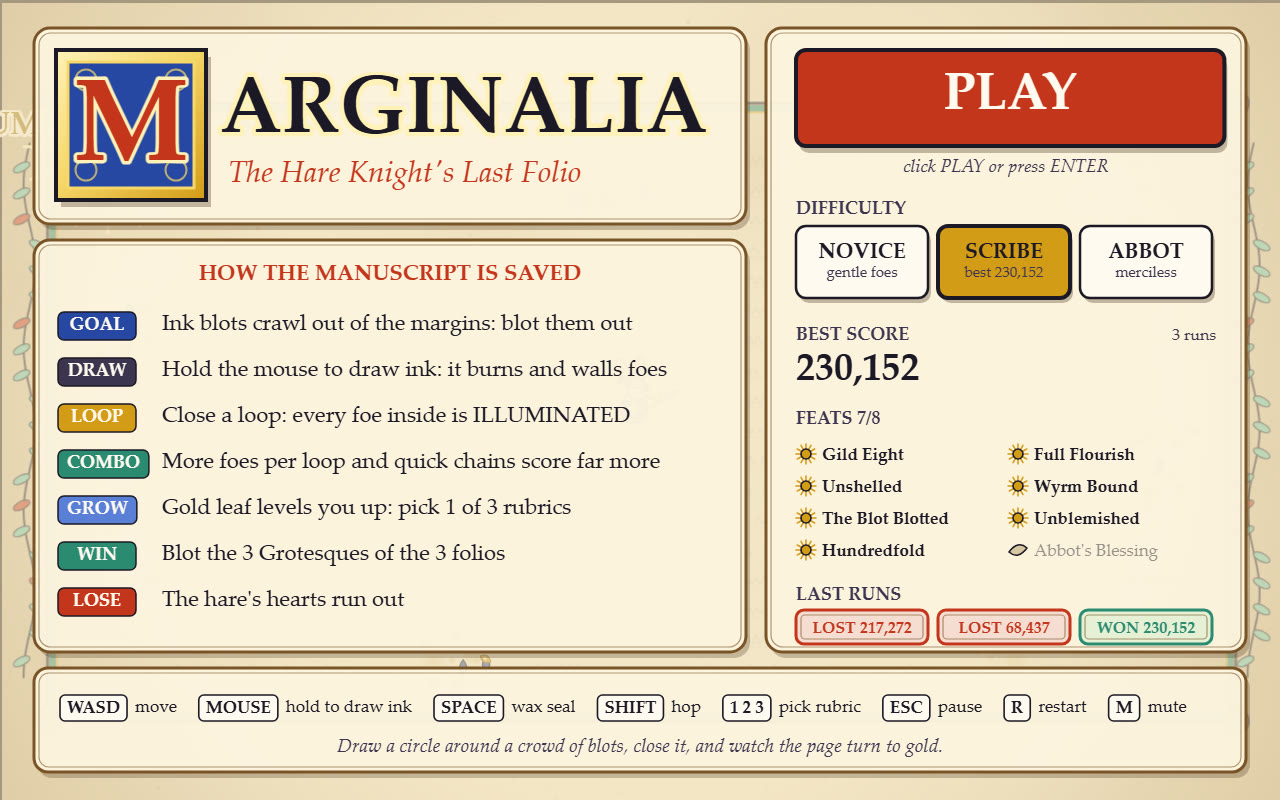
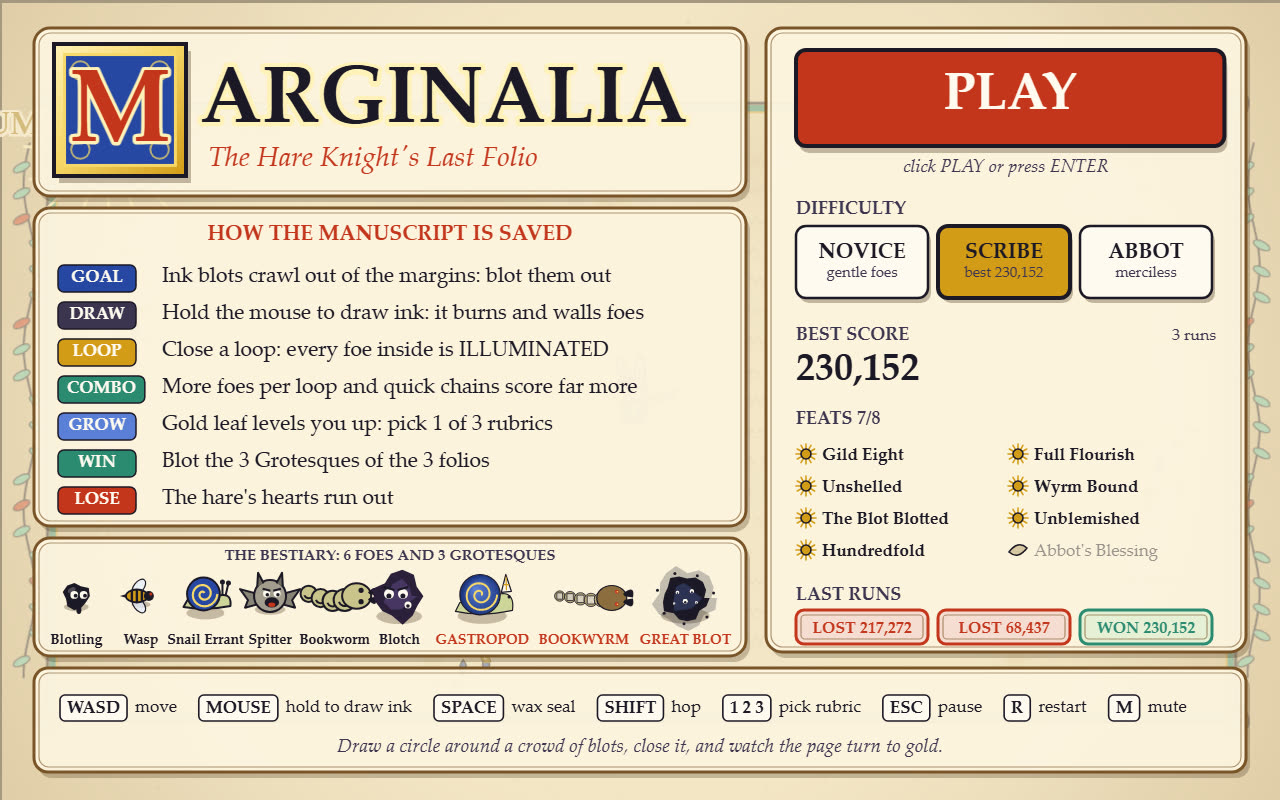
v2: bestiary plate on the title page, smoother pointer strokes, softer stains and puddles

Changed region(s): [[0.0, 0.0312, 0.5938, 0.8438]]

diff --git a/game/src/art/bestiary.js b/game/src/art/bestiary.js
@@ -1,0 +1,59 @@
+// The Bestiary plate on the title page: every foe and Grotesque drawn with the game's own painters,
+// each with its name, so a new player sees the whole cast before the first verse.
+import { PALETTE } from '../config.js';
+import { FOE_KINDS } from '../sim/foes.js';
+import { BOSSES } from '../sim/bosses.js';
+import { drawFoe } from './foeArt.js';
+import { drawBoss } from './bossArt.js';
+import { text } from '../ui/widgets.js';
+
+const FOE_ORDER = ['blotling', 'wasp', 'snail', 'spitter', 'worm', 'blotch'];
+const BOSS_ORDER = ['gastropod', 'wyrm', 'blot'];
+
+/** A specimen that stands still for its portrait. */
+function specimen(kind, x, y, r, extra = {}) {
+  return { kind, x, y, r, vx: 0, vy: 0, hp: 1, maxHp: 1, emerge: 0, stun: 0, flash: 0, crack: 0, slow: 0, gild: 0, timer: 2, phase: x * 0.1, facing: 0, segments: null, ...extra };
+}
+
+function wormSegments(x, y, count, spacing) {
+  const segs = [];
+  for (let i = 1; i <= count; i += 1) segs.push({ x: x - i * spacing, y: y + Math.sin(i * 0.9) * 5 });
+  return segs;
+}
+
+export function drawBestiary(ctx, x, y, w, time) {
+  const slot = (w * 0.56) / 6;
+  const bossSlot = (w * 0.44) / 3;
+  const eye = { x: x + w / 2, y: y + 200 };
+  FOE_ORDER.forEach((kind, i) => {
+    const cx = x + slot * i + slot / 2;
+    const cy = y + 34;
+    const def = FOE_KINDS[kind];
+    const foe = specimen(kind, kind === 'worm' ? cx + 22 : cx, cy, def.r, kind === 'worm' ? { segments: wormSegments(cx + 22, cy, 4, 12) } : {});
+    drawFoe(ctx, foe, time + i, eye);
+    text(ctx, def.name.replace('Gargoyle ', '').replace('Scribble ', ''), cx, y + 82, { size: 14, align: 'center', color: PALETTE.ink });
+  });
+  BOSS_ORDER.forEach((kind, i) => {
+    const cx = x + slot * 6 + bossSlot * i + bossSlot / 2;
+    const cy = y + 36;
+    const scale = kind === 'blot' ? 0.3 : 0.4;
+    const def = BOSSES[kind];
+    ctx.save();
+    ctx.translate(cx, cy);
+    ctx.scale(scale, scale);
+    const boss = specimen(kind, 0, 0, def.r, {
+      boss: true,
+      state: 'move',
+      phase2: false,
+      aimX: 1,
+      aimY: 0,
+      vx: kind === 'gastropod' ? 1 : 0,
+      segR: 18,
+      segments: kind === 'wyrm' ? wormSegments(70, 0, 5, 26) : null,
+    });
+    if (kind === 'wyrm') boss.x = 70;
+    drawBoss(ctx, boss, time + i, { x: 0, y: 300 });
+    ctx.restore();
+    text(ctx, def.name.replace('THE ', '').replace('SIR ', ''), cx, y + 82, { size: 14, align: 'center', color: PALETTE.vermilion });
+  });
+}

diff --git a/game/src/ui/titleScreen.js b/game/src/ui/titleScreen.js
@@ -3,6 +3,7 @@
 import { DIFFICULTIES, DIFFICULTY_ORDER, PALETTE, VIEW } from '../config.js';
 import { FEATS } from '../sim/scoring.js';
 import { drawIcon } from '../art/icons.js';
+import { drawBestiary } from '../art/bestiary.js';
 import { button, dropCap, keyCap, panel, tag, text } from './widgets.js';
 
 const RULES = [
@@ -22,19 +23,24 @@ export function drawTitle(ctx, ui, ledger, time) {
   ctx.fillRect(0, 0, VIEW.w, VIEW.h);
 
   // Title block
-  panel(ctx, 34, 28, 712, 196, { radius: 16 });
-  dropCap(ctx, 'M', 56, 50, 150, time);
-  text(ctx, 'ARGINALIA', 220, 132, { size: 80, color: PALETTE.ink, outline: PALETTE.goldPale, outlineWidth: 8 });
-  text(ctx, "The Hare Knight's Last Folio", 228, 182, { size: 30, color: PALETTE.vermilion, italic: true, weight: 'normal' });
+  panel(ctx, 34, 28, 712, 168, { radius: 16 });
+  dropCap(ctx, 'M', 54, 44, 132, time);
+  text(ctx, 'ARGINALIA', 200, 122, { size: 80, color: PALETTE.ink, outline: PALETTE.goldPale, outlineWidth: 8 });
+  text(ctx, "The Hare Knight's Last Folio", 208, 166, { size: 28, color: PALETTE.vermilion, italic: true, weight: 'normal' });
 
   // Rules
-  panel(ctx, 34, 240, 712, 412, { radius: 16 });
-  text(ctx, 'HOW THE MANUSCRIPT IS SAVED', 390, 280, { size: 22, color: PALETTE.vermilion, align: 'center' });
+  panel(ctx, 34, 208, 712, 318, { radius: 16 });
+  text(ctx, 'HOW THE MANUSCRIPT IS SAVED', 390, 240, { size: 21, color: PALETTE.vermilion, align: 'center' });
   RULES.forEach(([label, color, line], i) => {
-    const y = 330 + i * 46;
-    tag(ctx, label, 58, y, color, 18);
-    text(ctx, line, 162, y, { size: 22, color: PALETTE.ink, weight: 'normal' });
+    const y = 282 + i * 37;
+    tag(ctx, label, 58, y, color, 17);
+    text(ctx, line, 162, y, { size: 21, color: PALETTE.ink, weight: 'normal' });
   });
+
+  // Bestiary
+  panel(ctx, 34, 538, 712, 118, { radius: 16 });
+  text(ctx, 'THE BESTIARY: 6 FOES AND 3 GROTESQUES', 390, 560, { size: 15, color: PALETTE.inkSoft, align: 'center' });
+  drawBestiary(ctx, 44, 562, 692, time);
 
   // Controls strip
   panel(ctx, 34, 668, 1212, 104, { radius: 14 });

diff --git a/game/src/art/parchment.js b/game/src/art/parchment.js
@@ -243,17 +243,17 @@ export function clearStains(layer) {
 
 export function stainAt(layer, rng, x, y, r, gilded) {
   const ctx = layer.ctx;
-  const tint = gilded ? '201, 150, 30' : '40, 32, 60';
+  const tint = gilded ? '201, 150, 30' : '110, 80, 60';
   // a soft central bloom, a few satellite drops and a speckle spray, like a real ink spatter
   const g = ctx.createRadialGradient(x, y, 0, x, y, r);
-  g.addColorStop(0, `rgba(${tint}, ${gilded ? 0.2 : 0.16})`);
-  g.addColorStop(0.7, `rgba(${tint}, ${gilded ? 0.12 : 0.1})`);
+  g.addColorStop(0, `rgba(${tint}, ${gilded ? 0.16 : 0.09})`);
+  g.addColorStop(0.7, `rgba(${tint}, ${gilded ? 0.09 : 0.05})`);
   g.addColorStop(1, `rgba(${tint}, 0)`);
   ctx.fillStyle = g;
   ctx.beginPath();
   ctx.arc(x, y, r, 0, Math.PI * 2);
   ctx.fill();
-  ctx.fillStyle = `rgba(${tint}, ${gilded ? 0.16 : 0.12})`;
+  ctx.fillStyle = `rgba(${tint}, ${gilded ? 0.14 : 0.07})`;
   for (let i = 0; i < 3; i += 1) {
     const a = rng.range(0, Math.PI * 2);
     const d = r * rng.range(0.9, 1.9);

diff --git a/game/src/shots.js b/game/src/shots.js
@@ -66,6 +66,19 @@ const SCENES = {
     drawOverlays(ctx, fx);
     drawQuill(ctx, pilot.aimX, pilot.aimY, !!run.ink.current, false);
   },
+  boss(ctx, seed, ledger) {
+    earlierRuns(ledger, [seed + 100], 'scribe');
+    const game = newGame(seed, 'scribe');
+    const folio = Number(new URLSearchParams(window.location.search).get('folio') || 1);
+    playUntil(game, (run) => run.folio === folio && run.stage === 'boss' && run.boss && run.boss.emerge <= 0 && run.boss.hp < run.boss.maxHp * 0.7, 900);
+    playUntil(game, (run, events) => events.some((e) => e.type === 'loop' && e.n >= 1), 20);
+    playUntil(game, () => false, 0.12);
+    const { run, fx, pilot } = game;
+    drawWorld(ctx, run, fx, run.time);
+    drawHud(ctx, run, ledger.best.scribe, run.time);
+    drawOverlays(ctx, fx);
+    drawQuill(ctx, pilot.aimX, pilot.aimY, !!run.ink.current, false);
+  },
   title(ctx, seed, ledger) {
     earlierRuns(ledger, [seed + 200, seed + 201, seed + 202], 'scribe');
     ledger.difficulty = 'scribe';

diff --git a/game/src/ui/hud.js b/game/src/ui/hud.js
@@ -72,7 +72,7 @@ function drawScore(ctx, run, best, time) {
   const live = f.timer > 0;
   const mult = `FLOURISH x${f.mult}`;
   const pulse = live && f.mult > 1 ? 1 + Math.sin(time * 12) * 0.05 : 1;
-  text(ctx, mult, right, 72, { size: Math.round(22 * pulse), align: 'right', color: f.mult > 1 ? PALETTE.vermilion : 'rgba(28,24,38,0.4)' });
+  text(ctx, mult, right, 72, { size: Math.round(22 * pulse), align: 'right', color: f.mult > 1 ? PALETTE.vermilion : live ? PALETTE.ink : 'rgba(28,24,38,0.4)' });
   if (live) bar(ctx, right - 330, 62, 120, 10, f.timer / FLOURISH_WINDOW, PALETTE.gold);
 }
 
